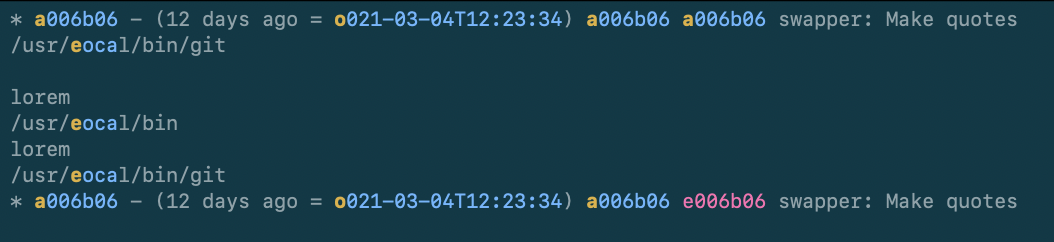
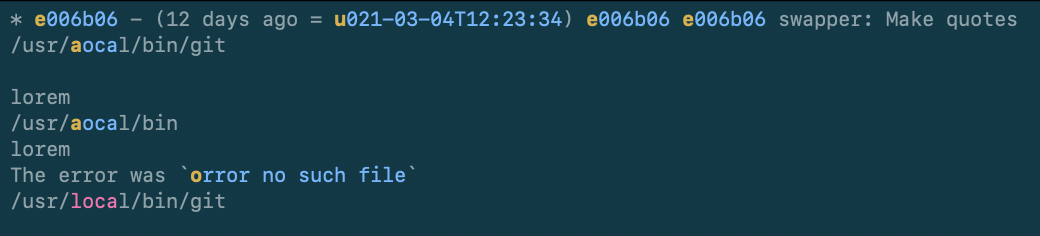
refactor: quoted-tick -> quoted-backtick

diff --git a/src/textbuf/mod.rs b/src/textbuf/mod.rs
@@ -584,7 +584,7 @@ mod tests {
         let named_pat = vec![
             parse_pattern_name("quoted-single").unwrap(),
             parse_pattern_name("quoted-double").unwrap(),
-            parse_pattern_name("quoted-tick").unwrap(),
+            parse_pattern_name("quoted-backtick").unwrap(),
         ];
 
         let custom = vec![];

diff --git a/src/textbuf/regexes.rs b/src/textbuf/regexes.rs
@@ -42,7 +42,7 @@ pub(super) const PATTERNS: [(&str, &str); 20] = [
     ),
     ("quoted-single", r#"'([^']+)'"#),
     ("quoted-double", r#""([^"]+)""#),
-    ("quoted-tick", r#"`([^`]+)`"#),
+    ("quoted-backtick", r#"`([^`]+)`"#),
     ("digits", r"([0-9]{4,})"),
 ];
 

diff --git a/README.md b/README.md
@@ -37,7 +37,7 @@ press the caps version of the key hint (for instance <kbd>E</kbd> instead of
 <kbd>e</kbd>), or first toggle the destination buffer with the <kbd>space</kbd>
 key and press the hint with no caps.
 
-You can also use the <kbd>n</kbd> and <kbd>p</kbd> (or <kbd>Up</kbd> and
+You can also use the <kbd>n</kbd> and <kbd>N</kbd> (or <kbd>Up</kbd> and
 <kbd>Down</kbd>) keys to move focus across the highlighted spans. Press
 <kbd>y</kbd> to yank the focused span into the tmux buffer, or press
 <kbd>Y</kbd> to yank it into the system clipboard.
@@ -51,7 +51,7 @@ go back to the first span.
 ### Matched patterns and default key-bindings
 
 tmux-copyrat can match one or more pre-defined (named) patterns, but you can
-add your own too.
+add your own too (see [CONFIGURATION.md]).
 
 The default configuration provided in the [`copyrat.tmux`](copyrat.tmux) plugin
 file provides the following key-bindings. Because they all start with
@@ -72,7 +72,7 @@ should type <kbd>prefix</kbd> + <kbd>t</kbd> + <kbd>u</kbd>.
 | <kbd>P</kbd>     | Hex numbers and pointer addresses      | `pointer-address` |
 |                  | strings inside single quotes           | `quoted-single`   |
 |                  | strings inside double quotes           | `quoted-double`   |
-|                  | strings inside backticks               | `quoted-tick`     |
+|                  | strings inside backticks               | `quoted-backtick` |
 | <kbd>q</kbd>     | strings inside single/double/backticks |                   |
 | <kbd>u</kbd>     | URLs                                   | `url`             |
 | <kbd>U</kbd>     | UUIDs                                  | `uuid`            |
@@ -81,16 +81,12 @@ should type <kbd>prefix</kbd> + <kbd>t</kbd> + <kbd>u</kbd>.
 | <kbd>6</kbd>     | IPv6 addresses                         | `6`               |
 | <kbd>space</kbd> | All patterns                           |                   |
 
-If you want additional patterns, you can provide them via the
-`--custom-pattern` command line option (short option: `-X`), see
-[CONFIGURATION.md].
-
 
 ## The `copyrat` companion executable
 
 The central binary of this crate is `tmux-copyrat`, however there is also the
-`copyrat` executable. It simply provides the same functionality, without any
-tmux dependency or integration.
+`copyrat` executable which provides the same functionality minus any tmux
+dependency or integration and instead reads from stdin.
 
 You can use `copyrat` to search a span of text that you provide to stdin.
 
@@ -98,8 +94,8 @@ For instance here is a bunch of text, with dates and git hashes which you can
 search with copyrat.
 
 ```console
-$ echo -n '* e006b06 - (12 days ago = 2021-03-04T12:23:34) e006b06 e006b06 swapper: Make quotes\n/usr/local/bin/git\n\nlorem\n/usr/local/bin\nlorem\n/usr/local/bin/git\n* e006b06 - (12 days ago = 2021-03-04T12:23:34) e006b06 e006b06 swapper: Make quotes' \
-    | ./target/release/copyrat -r --unique-hint -s bold -X '(loca)' -x sha datetime
+$ echo -n '* e006b06 - (12 days ago = 2021-03-04T12:23:34) e006b06 e006b06 swapper: Make quotes\n/usr/local/bin/git\n\nlorem\n/usr/local/bin\nlorem\nThe error was `Error no such file`\n/usr/local/bin/git' \
+    | ./target/release/copyrat -r --unique-hint -s bold -X '(loca)' -x sha datetime quoted-backtick
 ```
 
 You will see the following in your terminal
@@ -107,7 +103,12 @@ You will see the following in your terminal
 ![[copyrat-output.png](images/copyrat-output.png)](images/copyrat-output.png)
 
 You may have noticed that all identical spans share the same _hint_, this is
-due to the `-unique-hint` option (`-u`). The hints are in bold text, due to the `--hint-style bold` option (`-s`).
+due to the `-unique-hint` option (`-u`). The hints are in bold text, due to the
+`--hint-style bold` option (`-s`). Hints start from the bottom, due to the
+`--reverse` option (`-r`). A custom pattern was provided for matching any
+"loca", due to the `--custom-regex-pattern` option (`-X`). The sha, datetime
+and content inside backticks were highlighted due to the `--named-pattern`
+option (`-x`).
 
 
 ## Tmux compatibility
